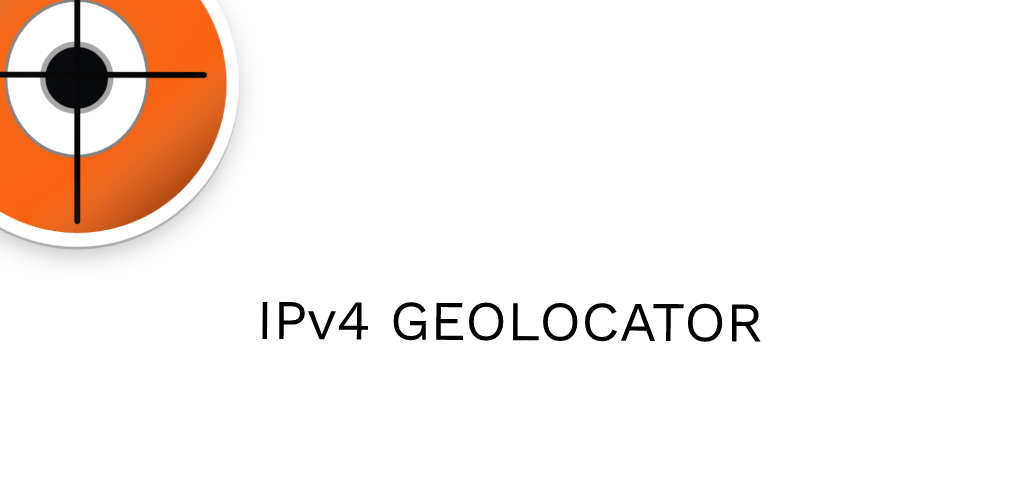
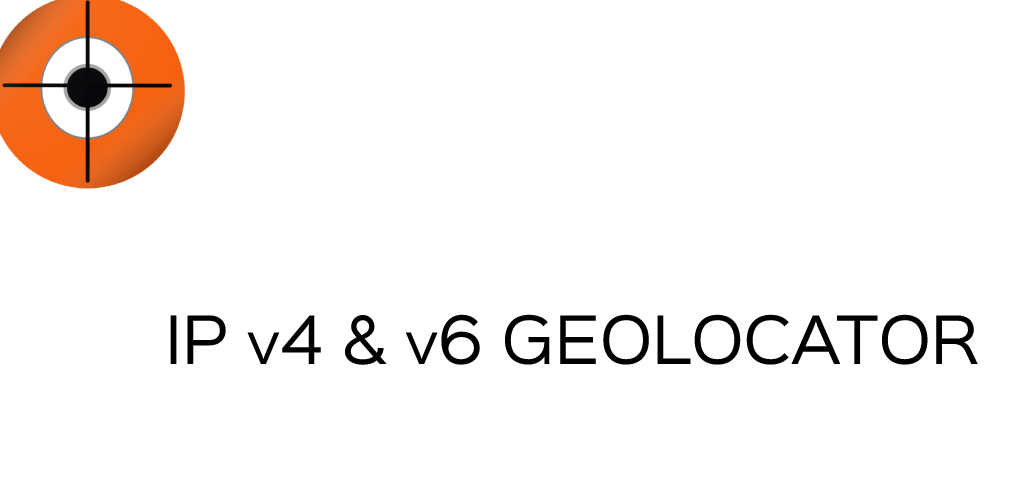
Added IPv6 support

Changed region(s): [[0.0, 0.0, 0.25, 0.54], [0.1562, 0.6, 0.9688, 0.75]]

diff --git a/lib/main.dart b/lib/main.dart
@@ -1,9 +1,10 @@
-import 'dart:convert';
+import 'dart:convert' show jsonDecode;
 
 import 'package:flutter/material.dart';
 import 'package:flutter/services.dart';
 import 'package:google_maps_flutter/google_maps_flutter.dart';
 import 'package:http/http.dart' as http;
+import 'package:http/http.dart' show Response;
 
 void main() {
   runApp(
@@ -25,13 +26,15 @@ class GeoLocateIP extends StatefulWidget {
 
 class MyAppState extends State<GeoLocateIP> {
   final fieldText = TextEditingController();
-  late GoogleMapController mapController;
+  late GoogleMapController? mapController;
   static const _marker = MarkerId('marker');
   final Set<Marker> _markers = {};
   var city = '';
   var country = '';
   var lat = 0.0; //39.7392;
   var lon = 0.0; //-104.9903;
+  var ipaddress = '';
+  bool detected = true;
 
   @override
   void initState() {
@@ -40,33 +43,50 @@ class MyAppState extends State<GeoLocateIP> {
 
   void _onMapCreated(GoogleMapController controller) {
     mapController = controller;
+    _reset("");
   }
 
-  void _reset(String ipaddress) async {
-    if (isIP4Valid(ipaddress)) {
-      var string = await fetchIPGeolocation(ipaddress);
-      decode = jsonDecode(string);
-      city = decode['CityName'].toString();
-      country = decode['CountryName'].toString();
-      lat = decode['Latitude'];
-      lon = decode['Longitude'];
-      //mapController.hideMarkerInfoWindow(_marker);
-      mapController.moveCamera(CameraUpdate.newCameraPosition(CameraPosition(
-        target: LatLng(lat, lon),
-        zoom: 12,
-      )));
-      setState(() {
-        _markers.clear();
-        _markers.add(Marker(
-          markerId: _marker,
-          position: LatLng(lat, lon),
-          icon: BitmapDescriptor.defaultMarker,
-        ));
-      });
-    } else {
-      //we need to display a message to the usr
+  void _reset(String possibleIp) async {
+    var response = await fetchIPGeolocation(possibleIp);
+    _parseResponseObject(response);
+
+    mapController?.moveCamera(CameraUpdate.newCameraPosition(CameraPosition(
+      target: LatLng(lat, lon),
+      zoom: 12,
+    )));
+    setState(() {
+      _markers.clear();
+      _markers.add(Marker(
+        markerId: _marker,
+        position: LatLng(lat, lon),
+        icon: BitmapDescriptor.defaultMarker,
+      ));
+    });
+  }
+
+  void _parseResponseObject(var response) {
+    decode = jsonDecode(response);
+    var potentialError = decode['error'].toString();
+    if (potentialError == "error") {
+      // ignore: use_build_context_synchronously
       gotoDetailsPage(context, 'Please enter a Valid IP address',
           const Icon(Icons.warning));
+      return;
+    }
+    city = decode['CityName'].toString();
+    if (city.isEmpty) {
+      city = 'Unknown';
+    }
+    country = decode['CountryName'].toString();
+    if (country.isEmpty) {
+      country = 'Unknown';
+    }
+    lat = double.parse(decode['Latitude'].toString());
+    lon = double.parse(decode['Longitude'].toString());
+    if (detected) {
+      ipaddress = 'This devices detected IP address is: ${decode['Ipaddress']}';
+    } else {
+      ipaddress = 'The searched IP address is: ${decode['Ipaddress']}';
     }
   }
 
@@ -76,8 +96,18 @@ class MyAppState extends State<GeoLocateIP> {
       debugShowCheckedModeBanner: false,
       home: Scaffold(
         floatingActionButtonLocation: FloatingActionButtonLocation.centerFloat,
+        floatingActionButton: FloatingActionButton(
+          mini: true,
+          tooltip: "Geolocate This Device",
+          hoverElevation: 50,
+          onPressed: () {
+            detected = true;
+            _reset('');
+          },
+          child: const Icon(Icons.home),
+        ),
         appBar: AppBar(
-          title: const Text('IPv4 Geolocator'),
+          title: const Text('IP v4/v6 Geolocator'),
           backgroundColor: Colors.blue[400],
         ),
         body: Column(
@@ -88,17 +118,18 @@ class MyAppState extends State<GeoLocateIP> {
                 autovalidateMode: AutovalidateMode.onUserInteraction,
                 child: TextFormField(
                   controller: fieldText,
-                  keyboardType: TextInputType.number,
+                  //keyboardType: TextInputType.number,
                   onFieldSubmitted: (text) {
                     fieldText.clear();
-                    _reset(text);
+                    _reset(text.trim());
+                    detected = false;
                   },
                   autofocus: true,
                   decoration: InputDecoration(
                     focusColor: Colors.amber[300],
                     prefixIconColor: Colors.blue,
                     border: const OutlineInputBorder(),
-                    hintText: 'Enter IPv4 Address (e.g. 88.88.88.88)',
+                    hintText: 'Enter a IPv4/IP6 Addresses (88.88.88.88)',
                     prefixIcon: const Icon(Icons.login),
                   ),
                   // ignore: body_might_complete_normally_nullable
@@ -107,10 +138,10 @@ class MyAppState extends State<GeoLocateIP> {
                         (value.length > 1 && value.length < 4)) {
                       return '';
                     } else if (value.isNotEmpty) {
-                      bool ip4Valid = isIP4Valid(value);
+                      bool ip4Valid = isIPValid(value);
                       return ip4Valid
                           ? null
-                          : "Please enter a vaild IP4 Address";
+                          : "Please enter a vaild IPv4/IPv6 Address";
                     }
                   },
                 ),
@@ -119,12 +150,19 @@ class MyAppState extends State<GeoLocateIP> {
             Padding(
               padding: const EdgeInsets.all(8.0),
               child: SizedBox(
-                height: 120,
+                height: 170,
                 child: Card(
                   shadowColor: Colors.blue,
-                  elevation: 30,
+                  elevation: 5,
                   child: Column(
                     children: [
+                      Card(
+                          elevation: 1,
+                          color: Theme.of(context).colorScheme.surfaceVariant,
+                          child: SizedBox(
+                            height: 35,
+                            child: Center(child: Text('$ipaddress')),
+                          )),
                       ListTile(
                         visualDensity: const VisualDensity(vertical: -4),
                         leading: const Icon(Icons.location_pin),
@@ -173,12 +211,6 @@ class MyAppState extends State<GeoLocateIP> {
       ),
     );
   }
-
-  bool isIP4Valid(String value) {
-    bool ip4Valid =
-        RegExp(r'^((25[0-5]|(2[0-4]|1\d|[1-9]|)\d)\.?\b){4}$').hasMatch(value);
-    return ip4Valid;
-  }
 }
 
 class _BottomAppBar extends StatelessWidget {
@@ -197,7 +229,7 @@ class _BottomAppBar extends StatelessWidget {
               onPressed: () {
                 gotoDetailsPage(
                     context,
-                    'This product inludes includes GeoLite2 data created by MaxMind, available from https://www.maxmind.com \n\nApplication built using - Google Maps, Flutter, and Dart \n\nServer side deployed on - Google Kubernetes Engine (GKE) \n\nMany thanks to all! \n\nSource code is found on Github @ https://github.com/ericwarriner/ericonjava \n',
+                    'This product inludes includes GeoLite2 data created by MaxMind, available from https://www.maxmind.com \n\nApplication built using - Google Maps, Flutter, and Dart \n\nServer side deployed on - Google Kubernetes Engine (GKE) \n\nMany thanks to all! \n\nSource code is found on Github @ https://github.com/ericwarriner/Geolocate \n',
                     const Icon(Icons.message));
               },
             )
@@ -222,21 +254,21 @@ void gotoDetailsPage(BuildContext context, String message, Icon icon) {
               elevation: 20,
               color: Colors.blue,
               child: InkWell(
-                child: SizedBox(
-                    width: 200,
-                    height: 330,
+                child: SizedBox.expand(
+                    //width: 200,
+                    //height: 330,
                     child: ListTile(
-                      visualDensity: const VisualDensity(vertical: -4),
-                      leading: icon,
-                      iconColor: Colors.white,
-                      title: Text(
-                        message,
-                        style: const TextStyle(
-                          fontSize: 10,
-                          color: Colors.white,
-                        ),
-                      ),
-                    )),
+                  visualDensity: const VisualDensity(vertical: -4),
+                  leading: icon,
+                  iconColor: Colors.white,
+                  title: Text(
+                    message,
+                    style: const TextStyle(
+                      fontSize: 20,
+                      color: Colors.white,
+                    ),
+                  ),
+                )),
               ),
             ),
           ),
@@ -247,12 +279,32 @@ void gotoDetailsPage(BuildContext context, String message, Icon icon) {
 }
 
 Future<String> fetchIPGeolocation(String ipaddress) async {
-  final response =
-      await http.get(Uri.parse('http://i.luv.software/ip/$ipaddress'));
+  Response? response;
+  if (ipaddress.isEmpty) {
+    response = await http.get(Uri.parse('https://i.luv.software/clientIP'));
+  } else {
+    if (isIPValid(ipaddress)) {
+      response =
+          await http.get(Uri.parse('https://i.luv.software/ip/$ipaddress'));
+    } else {
+      return '{"error":"error"}';
+    }
+  }
 
   if (response.statusCode == 200) {
     return response.body;
   } else {
-    throw Exception('Failed to Load');
+    return '{"error":"error"}';
+  }
+}
+
+bool isIPValid(String value) {
+  // return true;
+  if (RegExp(r'^((25[0-5]|(2[0-4]|1\d|[1-9]|)\d)\.?\b){4}$').hasMatch(value) ||
+      RegExp(r'(([0-9a-fA-F]{1,4}:){7,7}[0-9a-fA-F]{1,4}|([0-9a-fA-F]{1,4}:){1,7}:|([0-9a-fA-F]{1,4}:){1,6}:[0-9a-fA-F]{1,4}|([0-9a-fA-F]{1,4}:){1,5}(:[0-9a-fA-F]{1,4}){1,2}|([0-9a-fA-F]{1,4}:){1,4}(:[0-9a-fA-F]{1,4}){1,3}|([0-9a-fA-F]{1,4}:){1,3}(:[0-9a-fA-F]{1,4}){1,4}|([0-9a-fA-F]{1,4}:){1,2}(:[0-9a-fA-F]{1,4}){1,5}|[0-9a-fA-F]{1,4}:((:[0-9a-fA-F]{1,4}){1,6})|:((:[0-9a-fA-F]{1,4}){1,7}|:)|fe80:(:[0-9a-fA-F]{0,4}){0,4}%[0-9a-zA-Z]{1,}|::(ffff(:0{1,4}){0,1}:){0,1}((25[0-5]|(2[0-4]|1{0,1}[0-9]){0,1}[0-9])\.){3,3}(25[0-5]|(2[0-4]|1{0,1}[0-9]){0,1}[0-9])|([0-9a-fA-F]{1,4}:){1,4}:((25[0-5]|(2[0-4]|1{0,1}[0-9]){0,1}[0-9])\.){3,3}(25[0-5]|(2[0-4]|1{0,1}[0-9]){0,1}[0-9]))')
+          .hasMatch(value)) {
+    return true;
+  } else {
+    return false;
   }
 }
